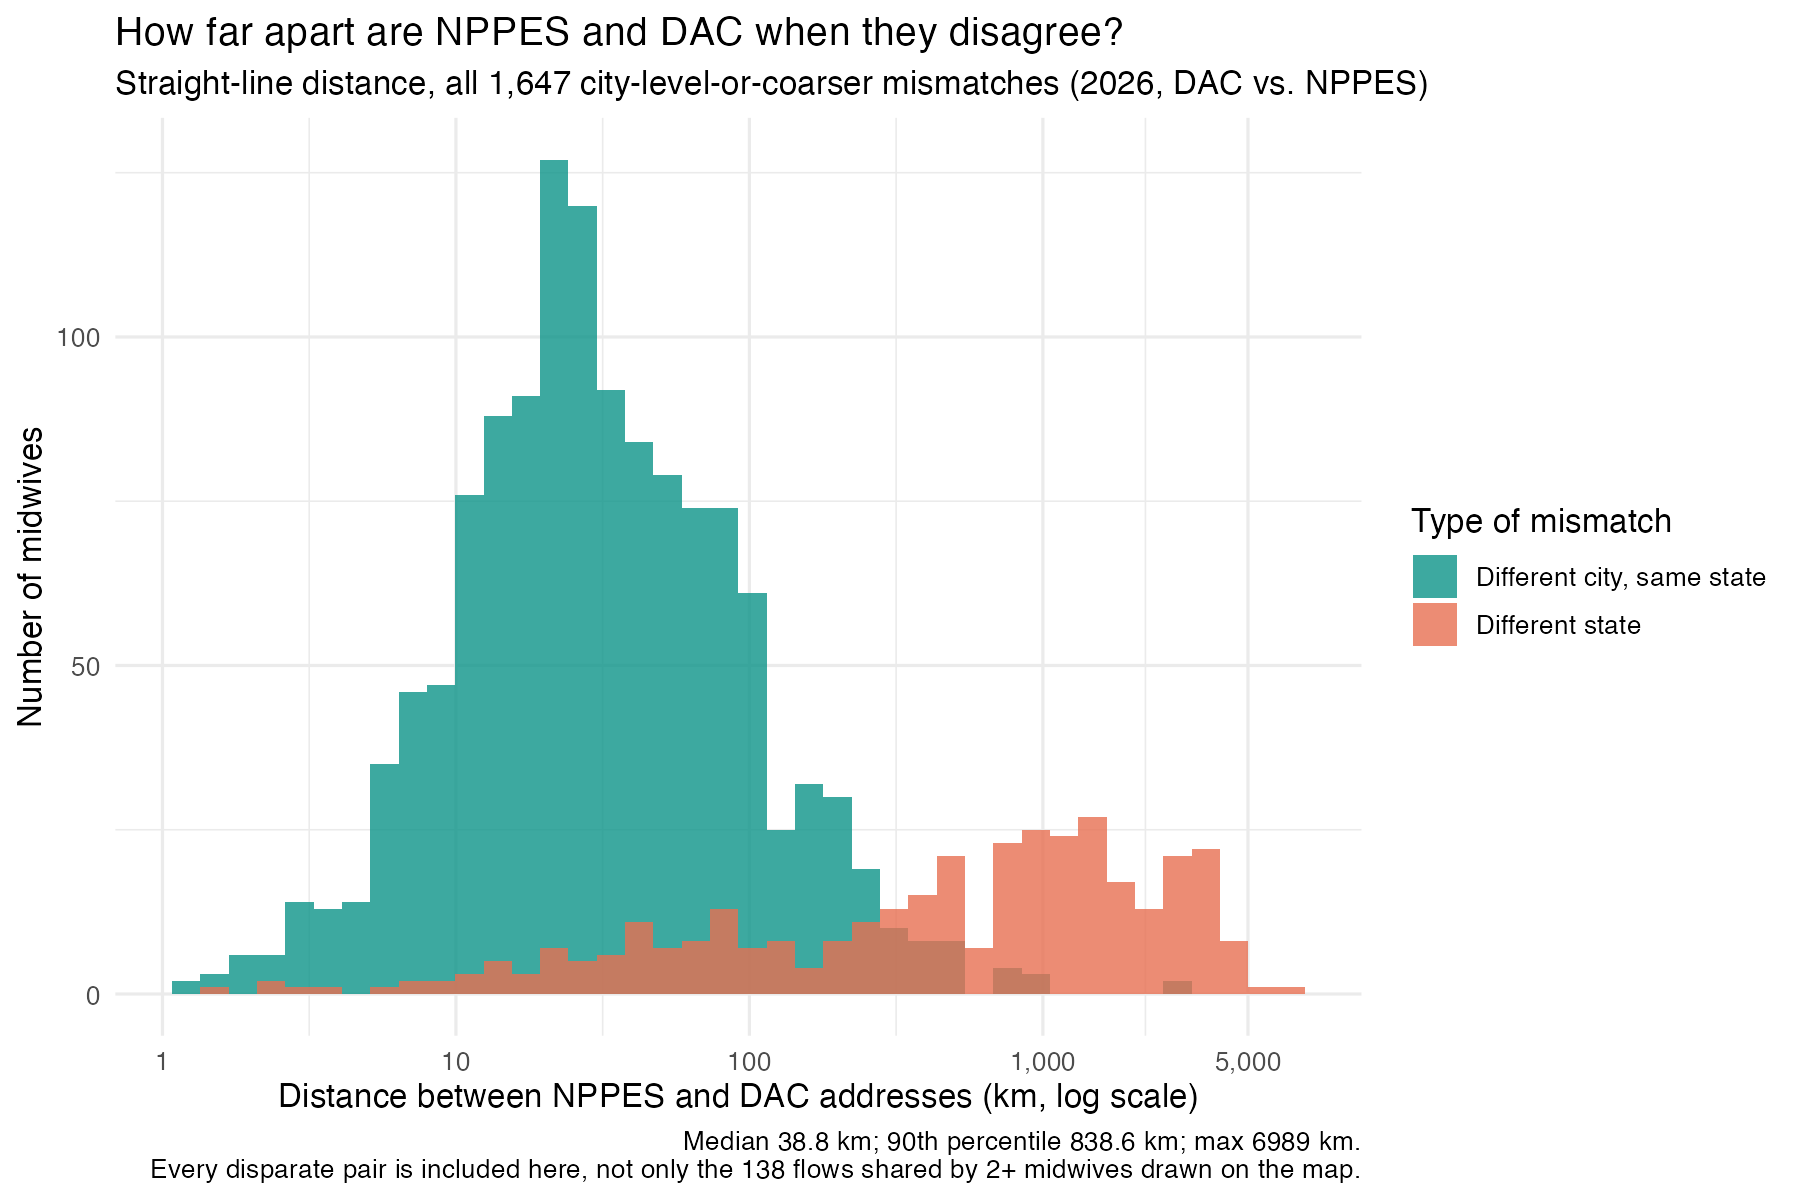
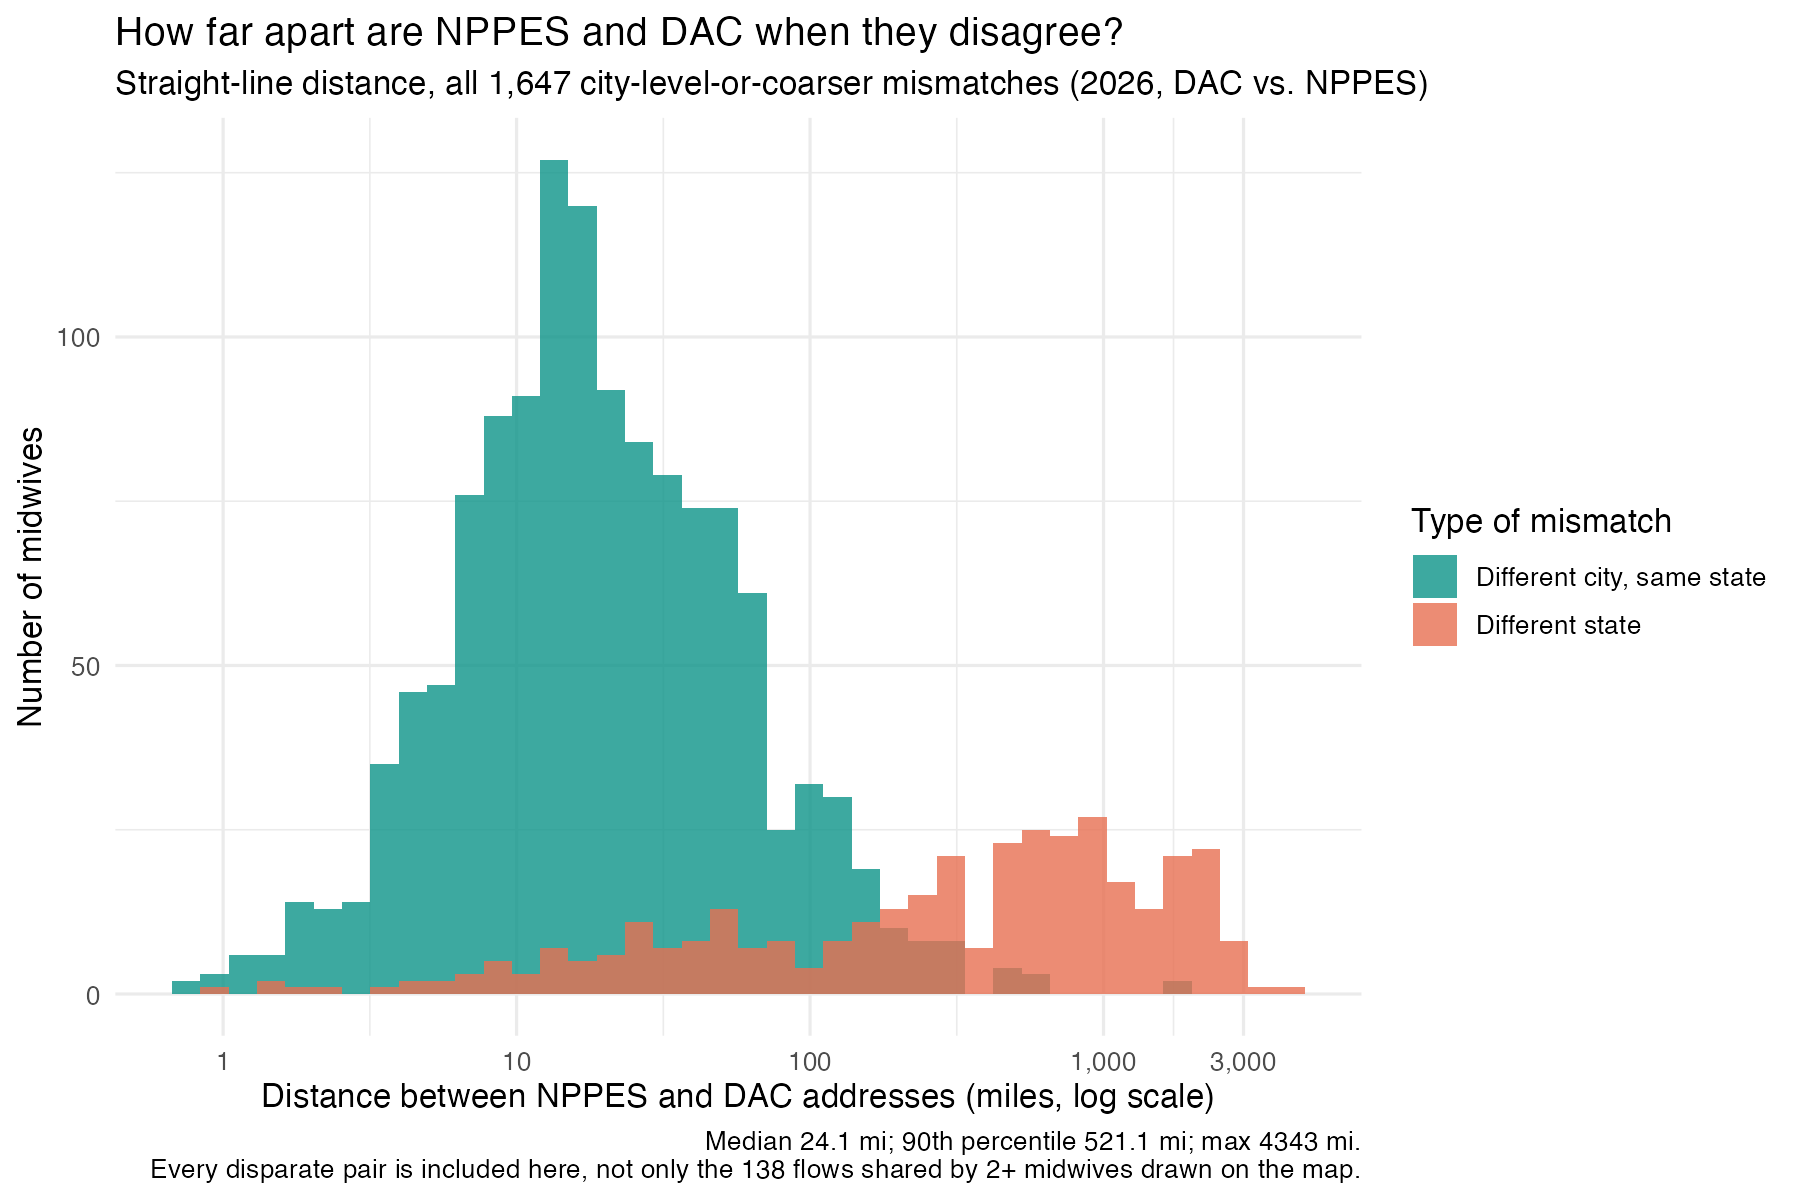
Report address distances in miles, not km
haversine_km() itself stays in km (shared infrastructure,
R/lib/geocode_conflicts.R's tolerances use it); this is a
display-only conversion (1 km = 0.621371 mi) at the point the
distance-summary table, histogram, and appendix text report the
numbers to the reader.

Claude-Session: https://claude.ai/code/session_01B86vSCLDD8XppKj5UFN1As

Changed region(s): [[0.1556, 0.8633, 0.7467, 0.9558], [0.6844, 0.8633, 0.7156, 0.8942]]

diff --git a/docs/TECHNICAL_APPENDIX_DAC_OPENPAYMENTS_ADDRESS_AGREEMENT.md b/docs/TECHNICAL_APPENDIX_DAC_OPENPAYMENTS_ADDRESS_AGREEMENT.md
@@ -362,8 +362,8 @@ shared by exactly one midwife -- those remain below even the n≥2 threshold
 and are exactly what min_flow_n exists
 to keep off a public map.
 
-**How far apart, in kilometers, for every single disparate pair -- not just
-the ones shown on the map.** The flow map only draws recurring city-pairs
+**How far apart, in miles, for every single disparate pair -- not just the
+ones shown on the map.** The flow map only draws recurring city-pairs
 (n≥2); it can't speak to how far apart a typical disagreement actually is.
 Straight-line (haversine) distance, computed for all 1,647 city-level-or-
 coarser mismatches, tracked in
@@ -371,21 +371,21 @@ coarser mismatches, tracked in
 
 | n | min | p25 | median | p75 | p90 | max | mean |
 |---|---:|---:|---:|---:|---:|---:|---:|
-| 1,647 | 1.2 km | 17.0 km | 38.8 km | 112.2 km | 838.6 km | 6,988.9 km | 285.4 km |
+| 1,647 | 0.7 mi | 10.6 mi | 24.1 mi | 69.7 mi | 521.1 mi | 4,342.7 mi | 177.3 mi |
 
 ![How far apart are NPPES and DAC when they disagree?](figures/dac_vs_nppes_address_distance_distribution.png)
 
 The distribution is clearly bimodal, and the two modes line up with the two
-`mismatch_type` categories almost exactly: a cluster at 10-100 km (teal,
+`mismatch_type` categories almost exactly: a cluster at 6-60 mi (teal,
 "different city, same state" -- consistent with the nearby-suburb mix-ups
-described above) and a separate cluster at 500-5,000 km (orange,
+described above) and a separate cluster at 300-3,000 mi (orange,
 "different state" -- genuine cross-country disagreements, not a long tail
-off the first cluster). The mean (285 km) is far above the median (39 km)
+off the first cluster). The mean (177 mi) is far above the median (24 mi)
 because of that second cluster, not because of a handful of extreme
-outliers -- the 90th percentile alone is already 839 km.
+outliers -- the 90th percentile alone is already 521 mi.
 
 One top outlier is flagged, not quietly left in: the single largest
-distance (6,989 km, Anchorage AK → a DAC record giving city "COOKEVILLE"
+distance (4,343 mi, Anchorage AK → a DAC record giving city "COOKEVILLE"
 with state "FL") is likely a DAC *source-data* inconsistency, not a
 geocoding error on this project's end -- Cookeville is a real city, but in
 Tennessee, not Florida. Census's batch geocoder returned a "Match" for the
